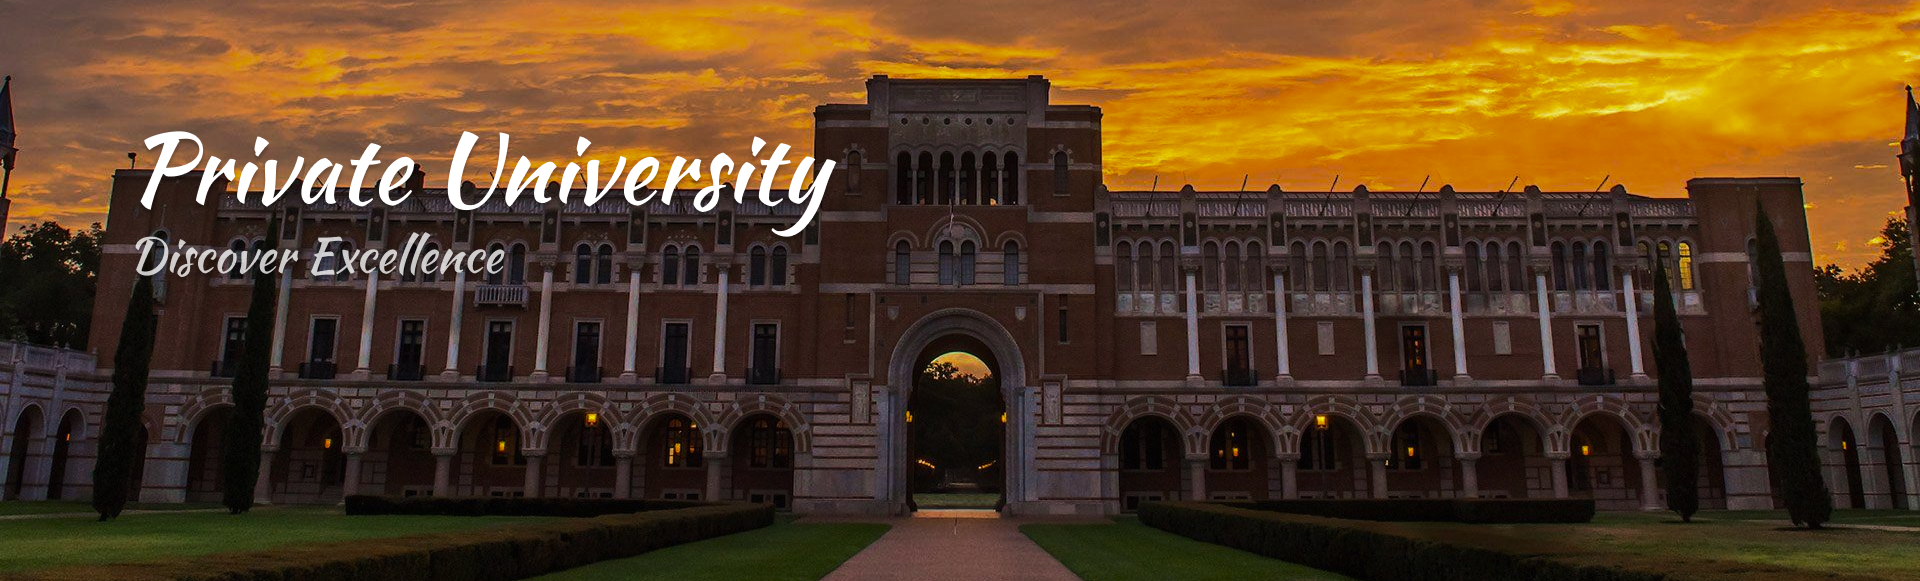
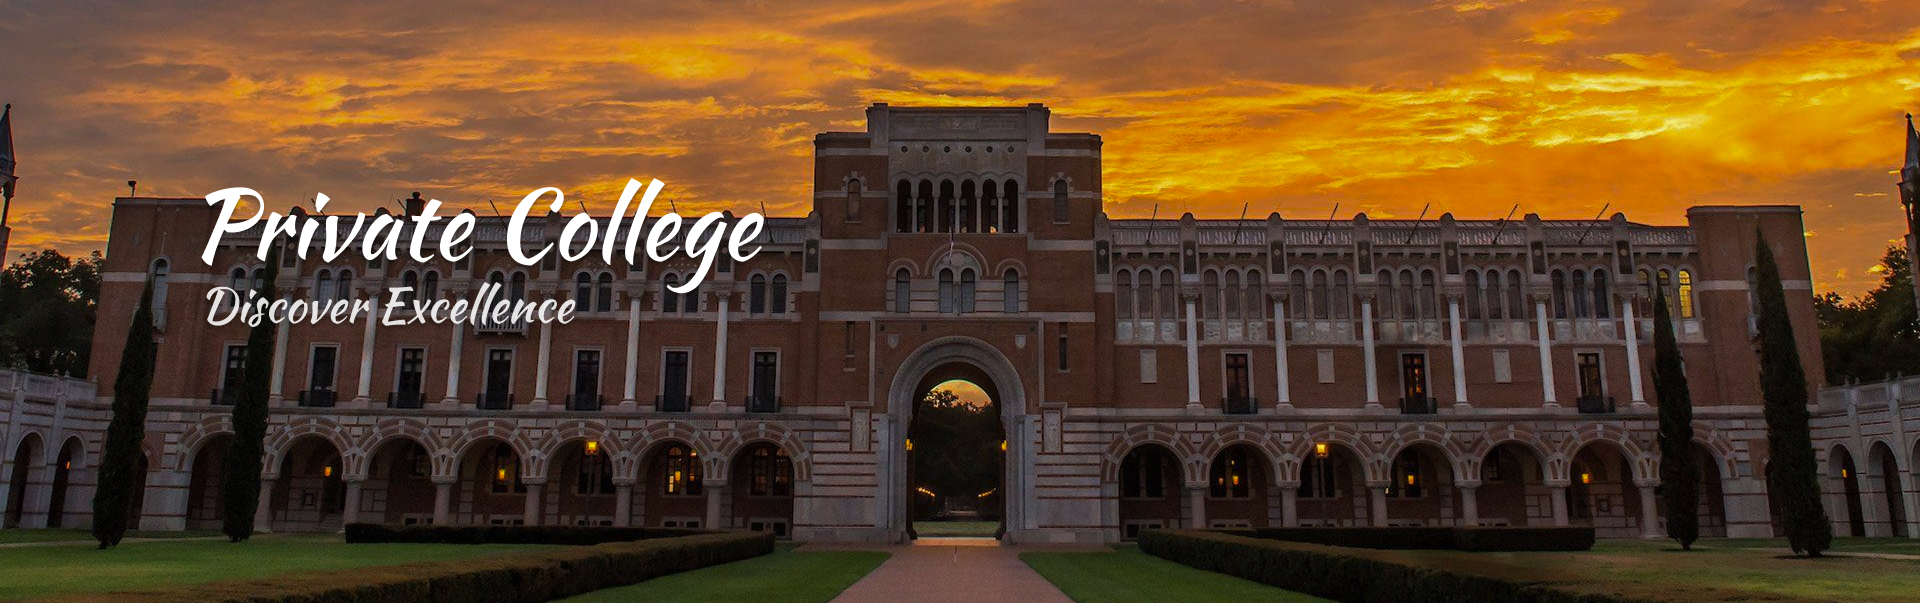
update

diff --git a/index.html b/index.html
@@ -3,7 +3,7 @@
 <head>
     <meta charset="UTF-8">
     <meta name="viewport" content="width=device-width, initial-scale=1.0">
-    <link rel="icon" href="/icons/icon.png" type="png/icon" />
+    <link rel="icon" href="/College-Website/icons/site-icon.png" type="png/icon" />
     <title>Private University</title>
     <link rel="stylesheet" href="https://maxcdn.bootstrapcdn.com/font-awesome/4.7.0/css/font-awesome.min.css">
     <link rel="stylesheet" href="css/styles.css">
@@ -14,8 +14,8 @@
     <div class="container ">
        <div class="width-25 head-left">
           <ul>
-             <li><a href="#"><i class="fa fa-lock"></i> Staff Login</a></li>
-             <li><a href="#"><i class="fa fa-lock"></i> Student Login</a></li>
+             <li><a href="#"><i class="fa fa-lock"></i> Staff Login</a></li>    <!--working on stuff login feature-->
+             <li><a href="/College-Website/links/studentlogin/slogin.html"><i class="fa fa-lock"></i> Student Login</a></li>    <!--completely added students login feature-->
           </ul>
        </div>
        <div class="width-50">
@@ -34,7 +34,7 @@
  <!---------- Top Header HTML Ends --------->
  <!---------- Logo And Main Menu HTML Starts --------->       <!--////// links sections to ther HTML PAGES  //////-->
 <div class="container">
-    <div class="width-25 logo"> <img src="/icons/logo.jpg"> </div>
+    <div class="width-25 logo"> <img src="/College-Website/icons/logo.jpg"> </div>
     <div class="width-75 head-menu">
        <ul>
           <li><a href="#">Home</a></li>
@@ -50,7 +50,7 @@
  <!---------- Logo And Main Menu HTML Ends --------->
  <!---------- Slider HTML Starts --------->
 <div class="width-100">
-    <img src="/collage-photo.jpg" class="main-banner">
+    <img src="/College-Website/collage-photo.jpg" class="main-banner">
     </div>
     <!---------- Slider HTML Ends --------->
 
@@ -465,17 +465,17 @@
           <div class="footer-link">
              <h2>Contact Info</h2>
              <ul class="footer-contact" >
-                <li><i class="fa fa-envelope-o"></i> <span>E-MAIL : privateuniversity@mail.com</span> </li>
+                <li><i class="fa fa-envelope-o"></i> <span>E-MAIL : privatecollege@mail.com</span> </li>
                 <li><i class="fa fa-whatsapp"></i> <span> WHATS-APP : +91 -123 456 789</span> </li>
                 <li><i class="fa fa-phone"></i> <span> CONTACT NO. : +91 -123 4567890</span> </li>
-                <li><i class="fa fa-globe"></i> <span>WEBSITE : https://www.privateuniversity.com</span> </li>
+                <li><i class="fa fa-globe"></i> <span>WEBSITE : https://www.privatecollege.com</span> </li>
              </ul>
           </div>
        </div>
        <div class="width-25">
           <div class="footer-link newsletter">
              <h2>Newsletter</h2>
-             <p>Welcome To The Best Private University</p>
+             <p>Welcome To The Best Private College</p>
              <input type="text" name="" placeholder="E-MAIL">
              <button>Subscribe Now</button>
           </div>
@@ -484,7 +484,7 @@
  </div>
  <!---------------------------- FOOTER  SECTION STARTS FOOTER  COPY RIGHTS SECTION STARTS  -------------------------->
 <div class="width-100 footer2-bacbor">
-   <p class="footer2-content">Copyright @ 2024, privateuniversity.com. All Rights Reserved</p>
+   <p class="footer2-content">By Ankan Manna, Copyright @ 2024, privatecollege.com All Rights Reserved.</p>
  </div>
  <!---------------------------- FOOTER  SECTION STARTS FOOTER COPY RIGHTS  SECTION ENDS  -------------------------->
  </body>

diff --git a/links/studentlogin/slogin.html b/links/studentlogin/slogin.html
@@ -1,0 +1,56 @@
+<!DOCTYPE html>
+<html lang="en">
+<head>
+    <meta charset="UTF-8">
+    <meta name="viewport" content="width=device-width, initial-scale=1.0">
+    <link rel="icon" href="/College-Website/icons/Untitled (1).png" type="png/icon" />
+    <title>Student Login</title>
+    <link rel="stylesheet" href="https://use.fontawesome.com/releases/v5.4.1/css/all.css">
+    <link href="https://fonts.googleapis.com/css?family=Roboto:300,400,500,700" rel="stylesheet">
+    <link rel="stylesheet" href="/College-Website/links/studentlogin/sloginstyle.css">
+</head>
+<body>
+
+    <div class="main-block">
+        <div class="left-part">
+          <i class="fas fa-graduation-cap"></i>
+          <h1>login for student</h1>
+          <p>The student login feature allows students to securely access their personal information, academic records, and other resources available on the college website.</p>
+<br>
+<br>
+<br>
+        </div>
+        <form action="/">
+          <div class="title">
+            <i class="fas fa-pencil-alt"></i> 
+            <h2>Log in</h2>
+          </div>
+          <div class="info">
+            <input class="fname" type="text" name="name" placeholder="Full name">
+            <input type="text" name="name" placeholder="Email">
+            <input type="text" name="name" placeholder="Phone number">
+            <input type="password" name="name" placeholder="Password">
+            <select>
+              <option value="course-type" selected>Course type*</option>
+              <option value="short-courses">Short courses</option>
+              <option value="featured-courses">Featured courses</option>
+              <option value="undergraduate">Undergraduate</option>
+              <option value="diploma">Diploma</option>
+              <option value="certificate">Certificate</option>
+              <option value="masters-degree">Masters degree</option>
+              <option value="postgraduate">Postgraduate</option>
+            </select>
+          </div>
+          <div class="checkbox">
+            <input type="checkbox" name="checkbox"><span>I agree to the <a href="#">Privacy Poalicy for private university</a></span>
+          </div>
+          <br>
+          <br>
+          <div class="btn-group">
+            <a class="btn-item">Login</a>
+          </div>
+        </form>
+      </div>
+    
+</body>
+</html>

diff --git a/links/studentlogin/sloginstyle.css b/links/studentlogin/sloginstyle.css
@@ -1,0 +1,95 @@
+html, body {
+    min-height: 100%;
+    }
+    body, div, form, input, select, p { 
+    padding: 0;
+    margin: 0;
+    outline: none;
+    font-family: Roboto, Arial, sans-serif;
+    font-size: 16px;
+    color: #eee;
+    }
+    body {
+    background: url("/College-Website/links/college.jpg") no-repeat center;
+    background-size: cover;
+    }
+    h1, h2 {
+    text-transform: uppercase;
+    font-weight: 400;
+    }
+    h2 {
+    margin: 0 0 0 8px;
+    }
+    .main-block {
+    display: flex;
+    flex-direction: column;
+    justify-content: center;
+    align-items: center;
+    height: 100%;
+    padding: 25px;
+    }
+    .left-part, form {
+    padding: 25px;
+    }
+    .left-part {
+    text-align: center;
+    }
+    .fa-graduation-cap {
+    font-size: 72px;
+    }
+    form {
+    background: rgba(0, 0, 0, 0.7); 
+    }
+    .title {
+    display: flex;
+    align-items: center;
+    margin-bottom: 20px;
+    }
+    .info {
+    display: flex;
+    flex-direction: column;
+    }
+    input, select {
+    padding: 5px;
+    margin-bottom: 30px;
+    background: transparent;
+    border: none;
+    border-bottom: 1px solid #eee;
+    }
+    input::placeholder {
+    color: #eee;
+    }
+    option:focus {
+    border: none;
+    }
+    option {
+    background: black; 
+    border: none;
+    }
+    .checkbox input {
+    margin: 0 10px 0 0;
+    vertical-align: middle;
+    }
+    .checkbox a {
+    color: #26a9e0;
+    }
+    .checkbox a:hover {
+    color: #85d6de;
+    }
+    .btn-item, button {
+    padding: 10px 5px;
+    margin-top: 20px;
+    border-radius: 5px; 
+    border: none;
+    background: #26a9e0; 
+    text-decoration: none;
+    font-size: 15px;
+    font-weight: 400;
+    color: #fff;
+    }
+    .btn-item {
+    display: inline-block;
+    margin: 20px 5px 0;
+    width: 100%;
+    text-align: center;
+    }
